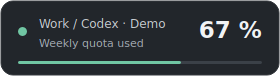
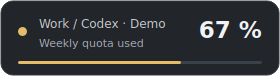
v0.2.5: dynamic quota ring and revised warning colors
Show remaining weekly quota in the tray icon's shrinking ring.
Turn yellow at 50% remaining and red at 20% remaining.
Keep popup alert thresholds unchanged.

Changed region(s): [[0.0571, 0.7895, 0.6571, 0.8421], [0.0571, 0.3421, 0.1143, 0.4737]]

diff --git a/quiet_quota.py b/quiet_quota.py
@@ -52,7 +52,7 @@ def notification_blocked():
 
 
 def color_for(used):
-    return "#ef7d84" if used >= 90 else "#e5bc68" if used >= 75 else "#70c6a3"
+    return "#ef7d84" if used >= 80 else "#e5bc68" if used >= 50 else "#70c6a3"
 
 
 class Toast(QWidget):
@@ -291,8 +291,9 @@ class Settings(QDialog):
         self.accept()
 
 
-def tray_icon(color="#70c6a3"):
-    """A quota ring forming a Q, drawn at native sizes for crisp Windows icons."""
+def tray_icon(color="#70c6a3", used=None):
+    """Draw the Q with remaining quota; no reading keeps the static brand mark."""
+    remaining = None if used is None else 1 - max(0, min(100, used)) / 100
     icon = QIcon()
     for size in (16, 20, 24, 32, 48, 64, 128, 256):
         pix = QPixmap(size, size)
@@ -307,7 +308,15 @@ def tray_icon(color="#70c6a3"):
         p.setPen(QPen(QColor("#59616b"), 3.5, Qt.PenStyle.SolidLine, Qt.PenCapStyle.RoundCap))
         p.drawEllipse(8, 7, 16, 16)
         p.setPen(QPen(QColor(color), 3.5, Qt.PenStyle.SolidLine, Qt.PenCapStyle.RoundCap))
-        p.drawArc(8, 7, 16, 16, 90 * 16, 265 * 16)
+        if remaining is None:
+            p.drawArc(8, 7, 16, 16, 90 * 16, 265 * 16)
+        elif remaining == 1:
+            p.drawEllipse(8, 7, 16, 16)
+        elif remaining > 0:
+            # Flat ends preserve the proportion, especially near an empty ring.
+            p.setPen(QPen(QColor(color), 3.5, Qt.PenStyle.SolidLine, Qt.PenCapStyle.FlatCap))
+            p.drawArc(8, 7, 16, 16, 90 * 16, -round(360 * 16 * remaining))
+        p.setPen(QPen(QColor(color), 3.5, Qt.PenStyle.SolidLine, Qt.PenCapStyle.RoundCap))
         p.drawLine(19, 20, 24, 25)
         p.end()
         icon.addPixmap(pix)
@@ -323,7 +332,7 @@ class Controller:
         self.cfg, self.error_key = load_config()
         self.policy = ThresholdPolicy(DATA / "state.json")
         self.toast = Toast(self.cfg)
-        self.tray = QSystemTrayIcon(tray_icon(), app)
+        self.tray = QSystemTrayIcon(tray_icon("#a3aab3", used=100), app)
         self.menu = QMenu()
         self.status = self.menu.addAction("")
         self.status.setEnabled(False)
@@ -372,18 +381,19 @@ class Controller:
             self.status.setText(tr(lang, "unavailable"))
             self.reset.setText(tr(lang, self.error_key))
             self.tray.setToolTip("Quiet Quota · " + tr(lang, self.error_key))
-            self.tray.setIcon(tray_icon("#a3aab3"))
+            self.tray.setIcon(tray_icon("#a3aab3", used=100))
         elif self.latest:
             used = self.latest["used"]
             self.status.setText(tr(lang, "usage_status", value=math.floor(used)))
             self.reset.setText(tr(lang, "reset_at", date=datetime.fromtimestamp(
                 self.latest["reset"]).strftime("%Y-%m-%d %H:%M")))
             self.tray.setToolTip("Quiet Quota · " + self.status.text())
-            self.tray.setIcon(tray_icon(color_for(used)))
+            self.tray.setIcon(tray_icon(color_for(used), used=used))
         else:
             self.status.setText(tr(lang, "demo_mode" if self.demo else "checking"))
             self.reset.setText(tr(lang, "no_data"))
             self.tray.setToolTip("Quiet Quota · " + self.status.text())
+            self.tray.setIcon(tray_icon("#a3aab3", used=100))
 
     def pause(self, value):
         self.paused = value

diff --git a/test_i18n.py b/test_i18n.py
@@ -40,6 +40,36 @@ class LocalizationTests(unittest.TestCase):
         self.assertEqual(validate_config({'language': 'unknown'})['language'], 'en')
         self.assertEqual(tr('unknown', 'settings'), 'Settings')
 
+    def test_tray_ring_shows_remaining_quota_and_retains_warning_tail(self):
+        # Inspect ring centres away from anti-aliased edges and the Q tail.
+        points = [(96, 60), (64, 92), (32, 60), (64, 28)]
+        full = ui.tray_icon(ui.color_for(0), used=0).pixmap(128).toImage()
+        empty = ui.tray_icon(ui.color_for(100), used=100).pixmap(128).toImage()
+        half = ui.tray_icon(ui.color_for(50), used=50).pixmap(128).toImage()
+        for x, y in points:
+            self.assertEqual(full.pixelColor(x, y).name(), '#70c6a3')
+            self.assertEqual(empty.pixelColor(x, y).name(), '#59616b')
+        self.assertEqual(half.pixelColor(96, 60).name(), '#e5bc68')
+        self.assertEqual(half.pixelColor(32, 60).name(), '#59616b')
+        self.assertEqual(empty.pixelColor(92, 96).name(), '#ef7d84')
+
+    def test_live_tray_tracks_readings_and_reset_and_clears_stale_ring(self):
+        from unittest.mock import Mock
+        controller = SimpleNamespace(cfg=DEFAULTS.copy(), error_key=None,
+            latest=None, demo=False, status=Mock(), reset=Mock(), tray=Mock())
+        controller.status.text.return_value = 'Usage status'
+        for used in (0, 49.99, 50, 79.99, 80, 100, 0):
+            controller.latest = {'used': used, 'reset': 1800000000}
+            ui.Controller.refresh_status(controller)
+            actual = controller.tray.setIcon.call_args.args[0].pixmap(32).toImage()
+            expected = ui.tray_icon(ui.color_for(used), used=used).pixmap(32).toImage()
+            self.assertEqual(actual, expected)
+        for error, latest in (('no_data', controller.latest), (None, None)):
+            controller.error_key, controller.latest = error, latest
+            ui.Controller.refresh_status(controller)
+            actual = controller.tray.setIcon.call_args.args[0].pixmap(32).toImage()
+            self.assertEqual(actual, ui.tray_icon('#a3aab3', used=100).pixmap(32).toImage())
+
     def test_support_requires_click_and_does_not_save_or_close(self):
         with patch.object(ui.QDesktopServices, 'openUrl', return_value=True) as open_url:
             dialog = ui.Settings(DEFAULTS.copy())

diff --git a/quota_core.py b/quota_core.py
@@ -151,7 +151,7 @@ class CodexReader:
                 messages.put(None)
         threading.Thread(target=drain, daemon=True).start()
         self.rpc("initialize", {"clientInfo": {"name": "quiet_quota",
-                 "title": "Quiet Quota", "version": "0.2.3"}})
+                 "title": "Quiet Quota", "version": "0.2.5"}})
         self.send({"method": "initialized", "params": {}})
 
     def send(self, message):

diff --git a/README.md b/README.md
@@ -8,7 +8,7 @@ no model inference. English by default, with eight interface languages.
 
 ![Quiet Quota demo popup showing example usage](docs/popup-en.png)
 
-**v0.2.3 beta · Windows · Python 3.10+ · MIT · Independent community project**
+**v0.2.5 beta · Windows · Python 3.10+ · MIT · Independent community project**
 
 Not affiliated with or endorsed by OpenAI, ChatGPT or Codex. This monitors the
 general Work/Codex quota exposed by Codex; it does not claim to track every
@@ -19,8 +19,14 @@ ChatGPT model or feature limit.
 ## What it does
 
 - Alerts at **50%, 75%, 90% and 95% used** by default. Set your own thresholds.
-- Green below 75%, amber from 75%, red from 90%. These colour boundaries remain
+- Green above 50% remaining, yellow at 50% remaining or less, red at 20% remaining
+  or less (50% and 80% used). These colour boundaries remain
   fixed even if you customise the alert thresholds.
+- The tray Q ring shows **quota remaining**: 42% used means 58% of the ring is
+  coloured. It shrinks as usage increases and refills after a quota reset is read.
+  The Q tail keeps the warning colour even at 100% used. Waiting or unavailable
+  readings show a neutral grey icon; title-bar and shortcut icons keep the brand mark.
+  Popup percentages still mean **used**. Test popups do not alter the live tray icon.
 - Each threshold is notified once per quota period, remembered across restarts.
 - Jumping across several thresholds produces one popup with the current value.
 - Starts silently: your first successful reading establishes the baseline.
@@ -58,7 +64,7 @@ This beta is a source distribution, **not a standalone EXE**.
    with the Python launcher (`py`).
 3. Run **`Setup.cmd`**. It creates a local `.venv` and installs PySide6 from PyPI.
    No administrator access is required.
-4. Run **`Demo.cmd`**. Find the dark tray icon with a coloured dot, possibly under
+4. Run **`Demo.cmd`**. Find the dark tray icon with a Q ring, possibly under
    the hidden-icons arrow next to the clock. Right-click for test popups and settings.
 5. Quit the demo before starting live mode: only one instance runs at a time.
 

diff --git a/CHANGELOG.md b/CHANGELOG.md
@@ -1,5 +1,18 @@
 # Changelog
 
+## 0.2.5 beta
+
+- Change tray and popup colours to yellow at 50% remaining and red at 20% remaining.
+- Keep configurable popup alert thresholds unchanged.
+
+## 0.2.4 beta
+
+- Make the tray Q ring proportional to remaining weekly quota, with a full ring at
+  0% used and an empty ring at 100% used; keep the Q tail visible in the status colour.
+- Keep green/amber/red based on usage, updating the ring on each successful reading.
+- Show a neutral grey icon while waiting for data or when usage is unavailable.
+- Keep title-bar and shortcut branding unchanged; test popups preserve the live icon.
+
 ## 0.2.3 beta
 
 - Add a discreet Ko-fi link to the Settings footer, with a translated tooltip.

diff --git a/docs/guide-german.md b/docs/guide-german.md
@@ -42,7 +42,7 @@ automatischen Fehler-Popups. Zum Beenden das Tray-Menü verwenden.
 ## Verhalten
 
 - Standardschwellen: 50, 75, 90, 95 Prozent Verbrauch; in den Einstellungen änderbar.
-- Ampel: Grün unter 75 %, Gelb ab 75 %, Rot ab 90 %. Farben sind unabhängig von
+- Ampel: Grün über 50 % verbleibend, Gelb ab 50 % verbleibend, Rot ab 20 % verbleibend (50 % bzw. 80 % Verbrauch). Farben sind unabhängig von
   individuell geänderten Meldeschwellen.
 - Mindestens 264 × 76 logische Pixel, Breite je nach Sprache und Schrift; 28 Pixel sanftes Hinein-/Herausgleiten; vier Sekunden sichtbar.
 - Kein Ton, kein Tastaturfokus, keine Mausklicks abfangen. DPI-Skalierung durch Qt.
